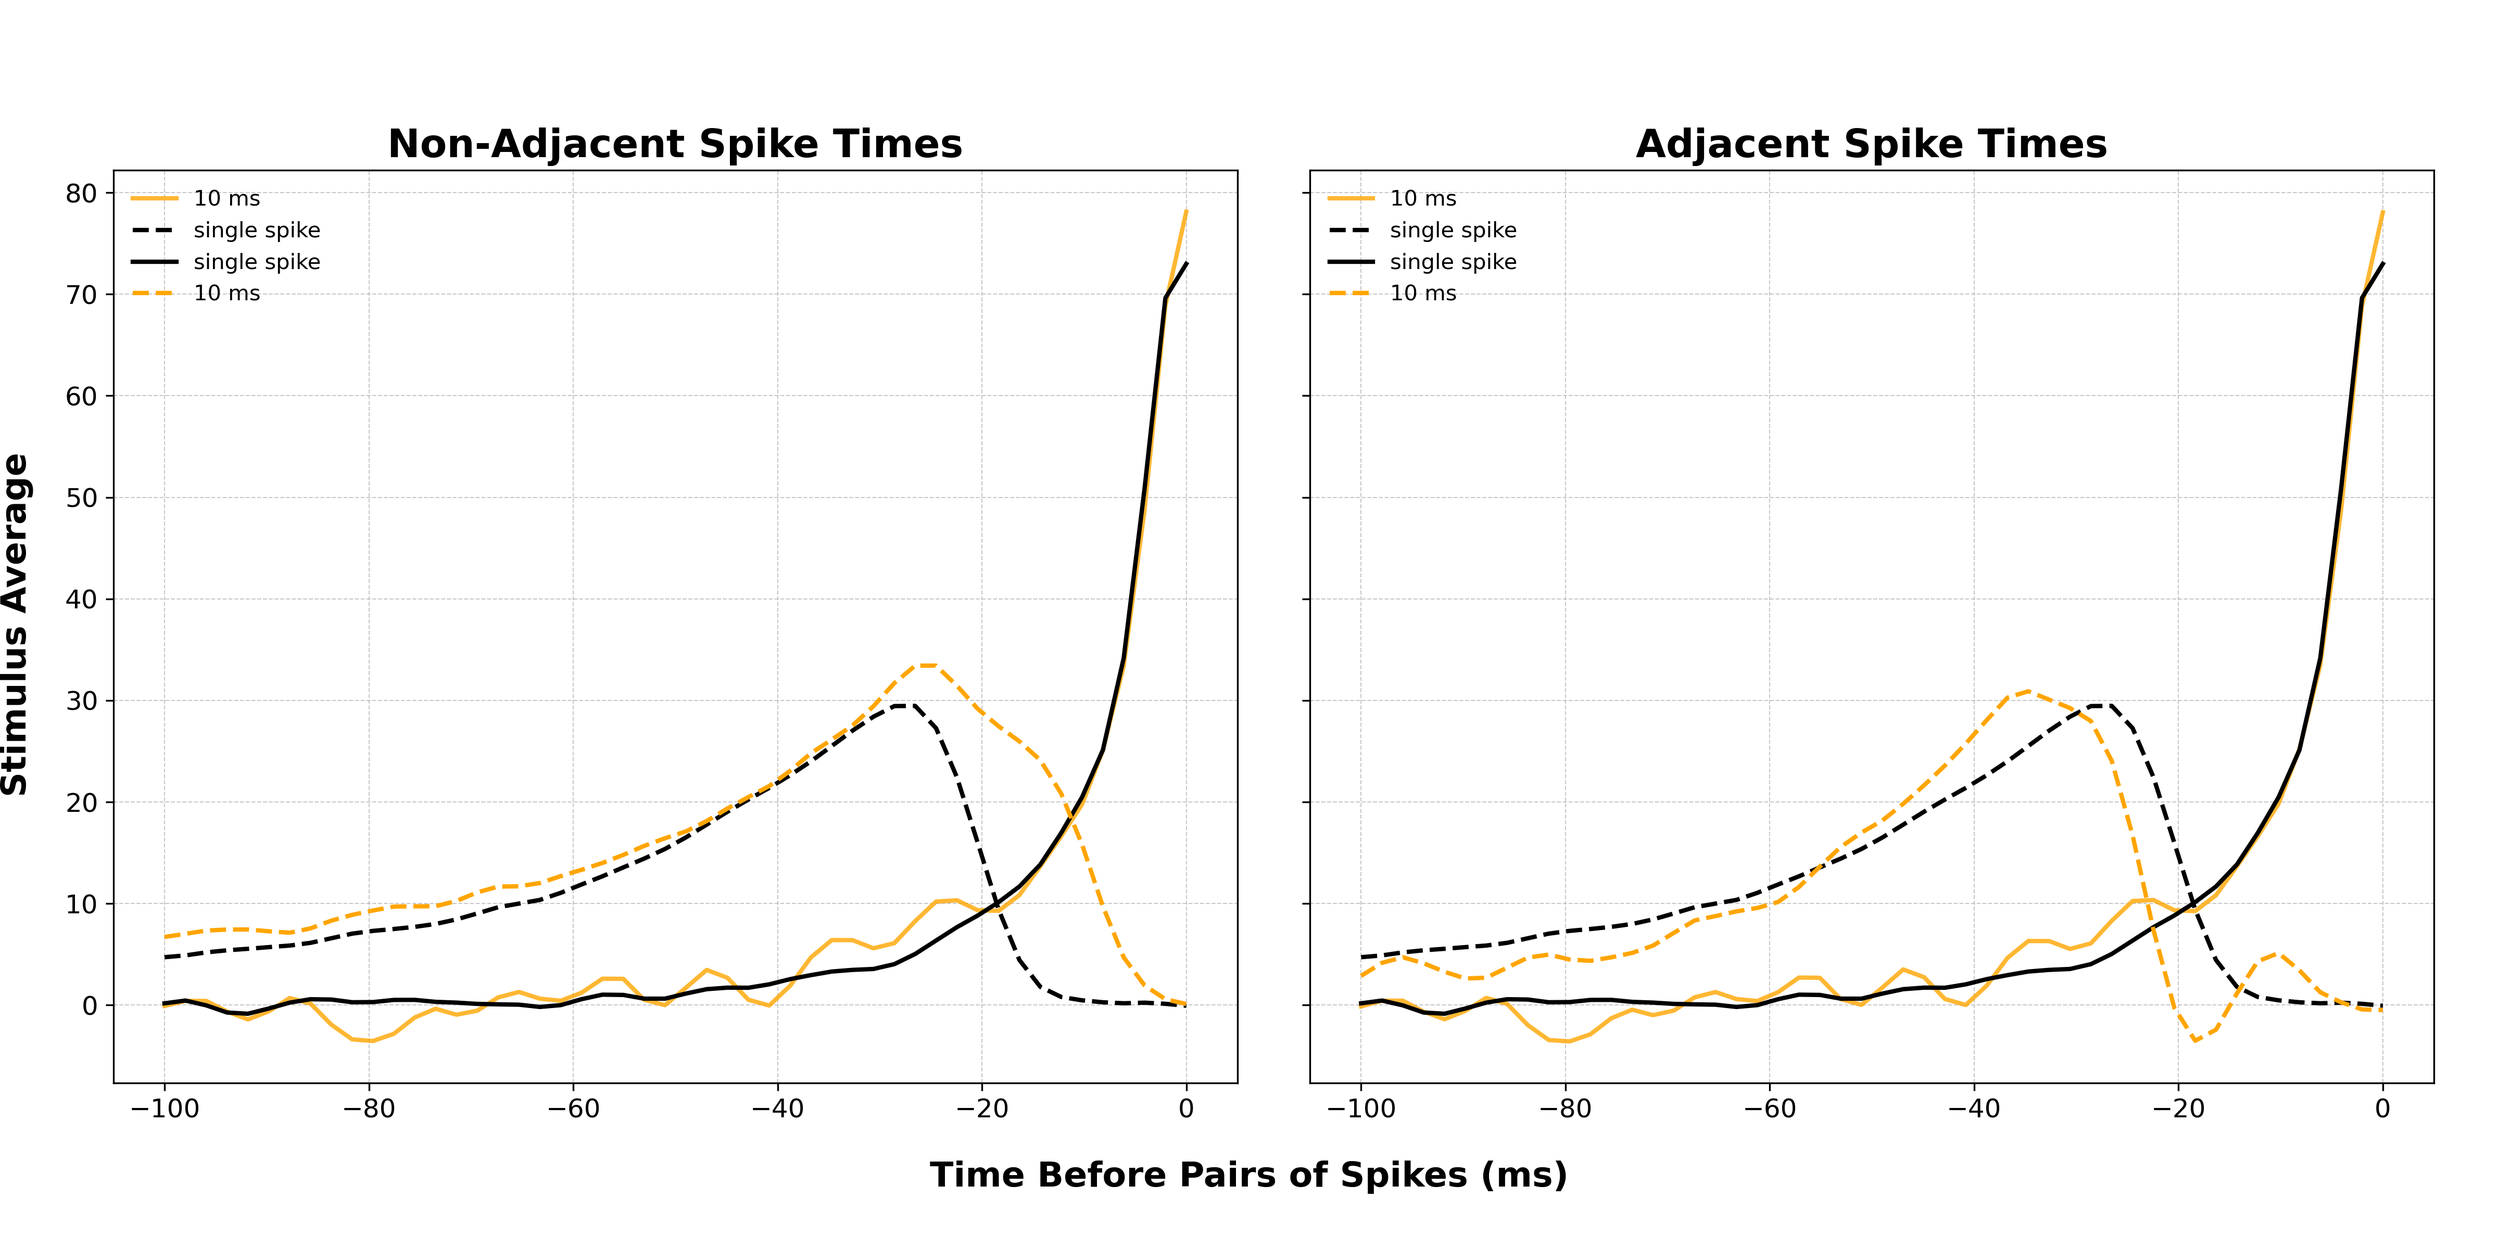
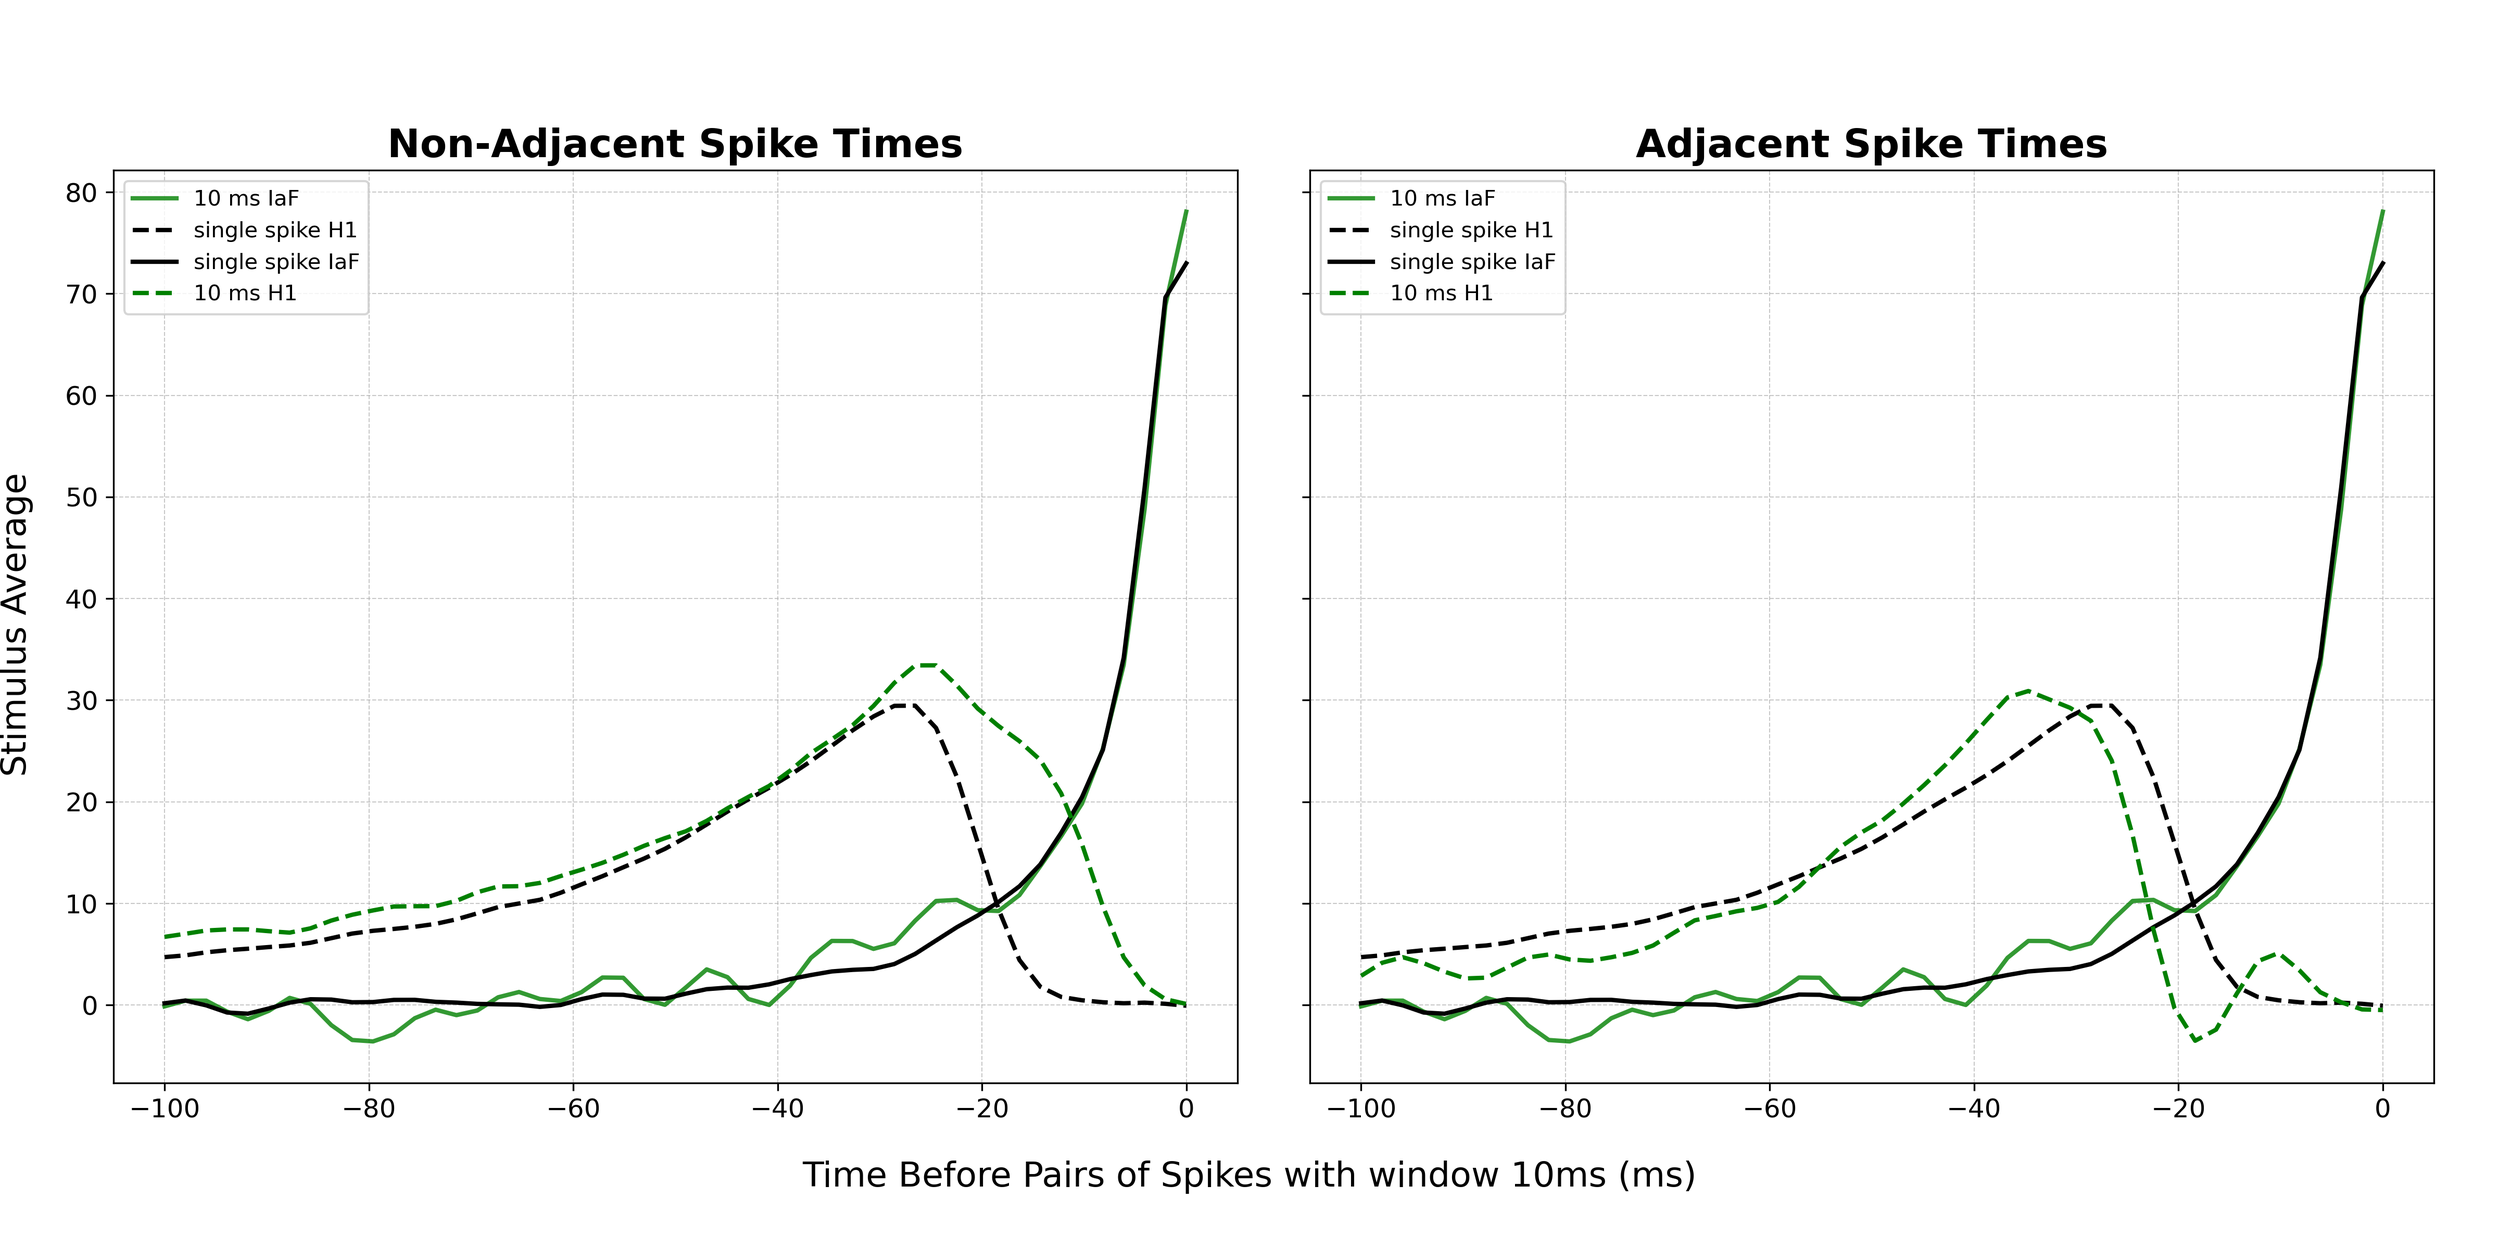
Update

diff --git a/q3q6.py b/q3q6.py
@@ -32,8 +32,6 @@ class IntegrateAndFireNeuron:
         self.arf = absolut_refractory_period # Refractory period
         self.rrf =  relative_refractory_period # Refractory period
         self.spikes = []
-        self.last_spike_time = -float('inf')  # Initialize last spike time
-        self.previous_RI = None
 
     def step(self, RI, dt):
         self.timeElapsed += dt
@@ -50,147 +48,26 @@ class IntegrateAndFireNeuron:
 
         return self.V
 
+    # A step fnuction with an absolut and relative refractory period
     def stepRef(self, RI, dt):
         self.timeElapsed += dt
 
-        if self.timeElapsed - self.last_spike_time < self.arf:
-            return self.V  # No change in voltage
+        if (self.spikes and self.timeElapsed - self.spikes[-1] < self.arf):
+            return self.V 
 
-        # Adjust threshold if in relative refractory period
         effective_threshold = self.threshold
-        # if self.arf <= self.timeElapsed - self.last_spike_time < self.arf + self.rrf:
-        #     effective_threshold += 20 
+        if (self.spikes and self.arf <= self.timeElapsed - self.spikes[-1] < self.arf + self.rrf):
+            effective_threshold += 20 
 
         if (self.V == self.spikeVol):
             self.V = self.restVol
 
-        if self.previous_RI is None:
-            self.previous_RI = RI
-
-        dRI_dt = (RI - self.previous_RI) / dt
-        self.previous_RI = RI
-
-        alpha = -0.001
-        sensitivity_factor = 1.0 + alpha * abs(dRI_dt)
-
         dV = dt / self.tau * (self.E - self.V + RI)
         self.V += dV
-
-        self.V = self.V * sensitivity_factor
         
         if self.V >= effective_threshold:
             self.V = 20.0  # Set membrane potential to 20 mV
             self.spikes.append(self.timeElapsed)
-            self.last_spike_time = self.timeElapsed
-
-        return self.V
-    
-    def stepH1(self, RI, dt):
-        beta = 0.2
-        gamma = 0.1
-        minimum_threshold = -60.0
-        maximum_threshold = -50.0
-        AHP_magnitude = 5.0
-
-        time_since_last_spike = self.timeElapsed - self.last_spike_time
-
-        # Absolute refractory period check
-        if time_since_last_spike < self.arf:
-            return self.V  # No change in voltage due to absolute refractory period
-
-        # Calculate rate of change of input (if previous_RI is not None)
-        if self.previous_RI is not None:
-            dRI_dt = (RI - self.previous_RI) / dt
-        else:
-            dRI_dt = 0  # No change for the first time step
-
-        # Update the previous stimulus input for the next iteration
-        self.previous_RI = RI
-
-        # Adjust the threshold based on the rate of change of the stimulus
-        if dRI_dt < 0:  # Stimulus is decreasing
-            self.threshold -= beta * abs(dRI_dt)  # Decrease threshold more rapidly
-        else:  # Stimulus is not decreasing
-            self.threshold += gamma * dRI_dt  # Increase threshold, but less rapidly
-
-        # Ensure the threshold does not go below a minimum value
-        self.threshold = max(self.threshold, minimum_threshold)
-
-        # Ensure the threshold does not exceed a maximum value
-        self.threshold = min(self.threshold, maximum_threshold)
-
-        # Adjust membrane potential based on the input and decay
-        dV = dt / self.tau * (self.E - self.V + self.R * RI)
-        self.V += dV
-
-        # Check for spike
-        if self.V >= self.threshold:
-            self.spikes.append(self.timeElapsed)
-            self.last_spike_time = self.timeElapsed
-            self.V = self.spikeVol  # Emit spike
-            # Implement the afterhyperpolarization (AHP) phase
-            self.V -= AHP_magnitude  # AHP_magnitude is a constant representing the AHP effect
-
-        # Implement relative refractory period based on AHP
-        if 0 < time_since_last_spike < self.rrf:
-            # The neuron is in the relative refractory period, so it's harder to spike
-            self.V += AHP_magnitude * (time_since_last_spike / self.rrf)  # Gradually return to normal potential
-
-        # Reset the voltage if it's below the resting potential
-        if self.V < self.E:
-            self.V = self.E  # Reset to resting potential
-
-        return self.V
-
-    def stepH12(self, RI, dt):
-        beta = 0.2
-        gamma = 0.1
-        minimum_threshold = -60.0
-        maximum_threshold = -50.0
-        AHP_magnitude = 5.0
-
-        time_since_last_spike = self.timeElapsed - self.last_spike_time
-        
-        # If the neuron is in the absolute refractory period, do not update anything
-        if time_since_last_spike < self.arf:
-            return self.V
-
-        # Calculate the rate of change of the stimulus, if previous_RI has been set
-        if self.previous_RI is not None:
-            dRI_dt = (RI - self.previous_RI) / dt
-        else:
-            dRI_dt = 0  # This occurs only for the first time step
-        
-        # Update the previous stimulus input for the next iteration
-        self.previous_RI = RI
-
-        # Adjust the threshold based on the rate of change of the stimulus
-        if dRI_dt < 0:  # Stimulus is decreasing
-            self.threshold -= beta * abs(dRI_dt)  # Decrease threshold more rapidly
-        else:  # Stimulus is not decreasing or is increasing
-            self.threshold += gamma * dRI_dt  # Increase threshold, but less rapidly
-
-        # Bound the threshold to stay within specified limits
-        self.threshold = max(self.threshold, minimum_threshold)
-        self.threshold = min(self.threshold, maximum_threshold)
-
-        # Calculate the change in membrane potential
-        dV = (dt / self.tau) * (-(self.V - self.E) + self.R * RI)
-
-        # Update the membrane potential
-        self.V += dV
-
-        # Check if the membrane potential has reached the threshold to fire a spike
-        if self.V >= self.threshold:
-            # Record the spike time
-            self.spikes.append(self.timeElapsed)
-            # Reset the membrane potential to its resting value after a spike
-            self.V = self.resetVol
-            # Record the last spike time
-            self.last_spike_time = self.timeElapsed
-
-        # Increment the elapsed time
-        self.timeElapsed += dt
 
         return self.V
 
@@ -484,11 +361,11 @@ def fullsim2(T, dt):
     plt.tight_layout()
     plt.show()
 
-def simulateQ6(stimulus, T, dt, constant_input):
+def simulateQ6(stimulus, T, dt, constant_input, tau=25.0):
 
     iaf_neuron = IntegrateAndFireNeuron(
         threshold=-45.0,
-        tau=25.0,
+        tau=tau,
         E=-65.0,
         spikeVol=20.0,
         reset_voltage=-70.0,
@@ -499,9 +376,9 @@ def simulateQ6(stimulus, T, dt, constant_input):
     stimulus_scalar = 1
 
     for t in range(len(input_values)):
-        print(f"    {t}/{T//dt}", end='\r')
+        print(f"    {t+1}/{T//dt}", end='\r')
         RI = input_values[t]*stimulus_scalar + constant_input
-        iaf_neuron.step(RI, dt)
+        iaf_neuron.stepRef(RI, dt)
 
     return len(iaf_neuron.getSpikes()) / (T / 1000), iaf_neuron.getSpikes()
 
@@ -513,10 +390,90 @@ def fullsim3():
     dt = 2 # ms
     constant = 10 # mV
 
-    freq, spikes_times =  simulateQ6(stimulus, T, dt, constant)
+    freq, spike_times =  simulateQ6(stimulus, T, dt, constant)
     print()
-    print(len(spikes_times))
-    q5.question5custom(spikes_times, constant)
+    print(len(spike_times))
+    q5.question5custom(spike_times, constant)
+
+def fullsim4():
+
+    stimulus = np.genfromtxt('ExtendedCoursework/stim.dat')
+    T = len(stimulus) * 2 # ms
+    dt = 2 # ms
+    constant = 10 # mV
+    tau_range = np.arange(1, 21, 1)
+    triggered_stimuli = []
+    triggered_stimuli_adjacent = []
+
+    for i, tau in enumerate(tau_range):
+        print(f"    {tau}/{max(tau_range)}", end='\r')
+        _, spike_times =  simulateQ6(stimulus, T, dt, constant, tau)
+
+        intervals = [2, 10, 20, 50]
+
+        # Calculate the average stimulus for each interval (not necessarily adjacent spike_times)
+        for stimuli in stimulus:
+            stimuli = stimuli + constant
+            
+        triggered_stimuli.append(q5.calculate_triggered_stimulus(stimulus, spike_times, intervals)[10])
+        # print(triggered_stimuli[i])
+        # return
+        triggered_stimuli_adjacent.append(q5.calculate_triggered_stimulus(stimulus, spike_times, intervals, adjacent_only=True)[10])
+
+    colors = sns.cubehelix_palette(len(tau_range), start=0.5, rot=-.75)
+    print()
+    print("Plotting...")
+    fig, axs = plt.subplots(1, 2, figsize=(16, 8), sharey=True)
+
+    # non-adjacent spike times
+    if triggered_stimuli is not None:
+        axs[0].stackplot(np.linspace(-100, 0, len(triggered_stimuli[0])), 
+                    triggered_stimuli, 
+                    labels=[str(tau_range[i]) + " ms" for i in range(len(tau_range))], 
+                    colors=colors,
+                    # linewidth=2,
+                    # alpha=0.8
+        )
+
+        # axs[0].set_title("Triggered Stimulus for Non-Adjacent Spike Times")
+
+        axs[0].legend()
+        axs[0].set_xlim([-100, 0])
+        axs[0].set_xticks(np.arange(-100, 1, 10))
+        axs[0].grid(True, linestyle='--', linewidth=0.5, alpha=0.7)
+        # axs[0].tight_layout()
+
+    # adjacent spike times
+    if triggered_stimuli_adjacent is not None:
+        axs[1].stackplot(np.linspace(-100, 0, len(triggered_stimuli_adjacent[0])), 
+                    triggered_stimuli_adjacent, 
+                    labels=[str(tau_range[i]) + " ms" for i in range(len(tau_range))], 
+                    colors=colors,
+                    # linewidth=2,
+                    # alpha=0.8
+        )
+        # axs[1].set_title("Triggered Stimulus for Adjacent Spike Times")
+
+        axs[1].legend()
+        axs[1].set_xlim([-100, 0])
+        axs[1].set_xticks(np.arange(-100, 1, 10))
+        axs[1].grid(True, linestyle='--', linewidth=0.5, alpha=0.7)
+        # axs[1].tight_layout()
+
+    fig.text(0.005, 0.5, 'Stimulus Average', va='center', rotation='vertical', fontsize=16)
+    fig.text(0.5, 0.05, 'Time Before Pairs of Spikes with interval 10ms (ms)', ha='center', fontsize=16)
+
+    axs[0].set_title('Non-Adjacent Spike Times', fontsize=18)
+    axs[1].set_title('Adjacent Spike Times', fontsize=18)
+    for ax in axs:
+        ax.grid(True, linestyle='--', linewidth=0.5, alpha=0.7)
+        # ax.legend(loc='center left', bbox_to_anchor=(-0.1, 0.5))
+        ax.legend(loc='center left')
+        ax.tick_params(labelsize=12)
+
+    plt.tight_layout(rect=[0, 0.05, 1, 0.95], pad=3)
+    # plt.savefig("q6.png")
+    plt.show()
 
 if __name__=="__main__":
     # np.random.seed(0)
@@ -527,3 +484,4 @@ if __name__=="__main__":
     # fullsim1(T, dt, input_neurons_freq)
     # fullsim2(T, dt)
     fullsim3()
+    # fullsim4()

diff --git a/q5.py b/q5.py
@@ -186,8 +186,8 @@ def question5custom(spike_times, constant):
     print("Plotting...")
     fig, axs = plt.subplots(1, 2, figsize=(16, 8), sharey=True)
 
-    # colors = ['#1f77b4', '#ff7f0e', '#2ca02c', '#d62728']  # More appealing color palette
-    colors = ['blue', 'orange', 'green', 'red']
+    # colors = ['blue', 'orange', 'green', 'red']
+    colors = ['blue', 'green', 'red']
     intervals = [2, 10, 20, 50]
 
     # non-adjacent spike times
@@ -196,19 +196,19 @@ def question5custom(spike_times, constant):
             if triggered_stimuli[interval] is not None:
                 axs[0].plot(np.linspace(-100, 0, len(triggered_stimuli[interval])), 
                             triggered_stimuli[interval], 
-                            label=f'{interval} ms', 
+                            label=f'{interval} ms IaF', 
                             color=colors[i],
                             linewidth=2,
                             alpha=0.8)
     axs[0].plot(np.linspace(-100, 0, len(triggered_stimuli[interval])), 
                 sta_single_spike1, 
-                label='single spike', 
+                label='single spike H1', 
                 color='black',
                 linewidth=2,
                 linestyle='--',)
     axs[0].plot(np.linspace(-100, 0, len(triggered_stimuli[interval])), 
                 sta_single_spike2, 
-                label='single spike', 
+                label='single spike IaF', 
                 color='black',
                 linewidth=2,
                 linestyle='-',)
@@ -219,24 +219,24 @@ def question5custom(spike_times, constant):
             if triggered_stimuli_adjacent[interval] is not None:
                 axs[1].plot(np.linspace(-100, 0, len(triggered_stimuli_adjacent[interval])), 
                             triggered_stimuli_adjacent[interval], 
-                            label=f'{interval} ms', 
+                            label=f'{interval} ms IaF', 
                             color=colors[i],
                             linewidth=2,
                             alpha=0.8,)
     axs[1].plot(np.linspace(-100, 0, len(triggered_stimuli[interval])), 
                 sta_single_spike1, 
-                label='single spike', 
+                label='single spike H1', 
                 color='black',
                 linewidth=2,
                 linestyle='--',)
     axs[1].plot(np.linspace(-100, 0, len(triggered_stimuli[interval])), 
                 sta_single_spike2, 
-                label='single spike', 
+                label='single spike IaF', 
                 color='black',
                 linewidth=2,
                 linestyle='-',)
     
-    # reset spike_times
+    # spike times of the H1 neuron
     spike_times = utils.load_rho()
 
     triggered_stimuli = calculate_triggered_stimulus(stimulus, spike_times, intervals)
@@ -247,7 +247,7 @@ def question5custom(spike_times, constant):
             if triggered_stimuli[interval] is not None:
                 axs[0].plot(np.linspace(-100, 0, len(triggered_stimuli[interval])), 
                             triggered_stimuli[interval], 
-                            label=f'{interval} ms', 
+                            label=f'{interval} ms H1', 
                             color=colors[i],
                             linewidth=2,
                             linestyle='--',)
@@ -257,25 +257,27 @@ def question5custom(spike_times, constant):
             if triggered_stimuli_adjacent[interval] is not None:
                 axs[1].plot(np.linspace(-100, 0, len(triggered_stimuli_adjacent[interval])), 
                             triggered_stimuli_adjacent[interval], 
-                            label=f'{interval} ms', 
+                            label=f'{interval} ms H1', 
                             color=colors[i],
                             linewidth=2,
                             linestyle='--')
 
 
-    fig.text(0.5, 0.05, 'Time Before Pairs of Spikes (ms)', ha='center', fontsize=16, fontweight='bold')
-    fig.text(0, 0.5, 'Stimulus Average', va='center', rotation='vertical', fontsize=16, fontweight='bold')
+    fig.text(0.5, 0.05, 'Time Before Pairs of Spikes with window 10ms (ms)', ha='center', fontsize=16)
+    fig.text(0, 0.5, 'Stimulus Average', va='center', rotation='vertical', fontsize=16)
 
     axs[0].set_title('Non-Adjacent Spike Times', fontsize=18, fontweight='bold')
     axs[1].set_title('Adjacent Spike Times', fontsize=18, fontweight='bold')
 
     for ax in axs:
         ax.grid(True, linestyle='--', linewidth=0.5, alpha=0.7)
-        ax.legend(frameon=False, loc='best')
+        # ax.legend(loc='best')
+        ax.legend()
         ax.tick_params(labelsize=12)
 
     plt.tight_layout(rect=[0, 0.05, 1, 0.95], pad=3)
-
+    # plt.legend(frameon=False, loc='upper center', bbox_to_anchor=(0.5, -0.1), ncol=3, fontsize=14)
+    # fig.legend()
     plt.savefig('STA_plot_pairs.png', dpi=300, transparent=True)
 
     plt.show()
